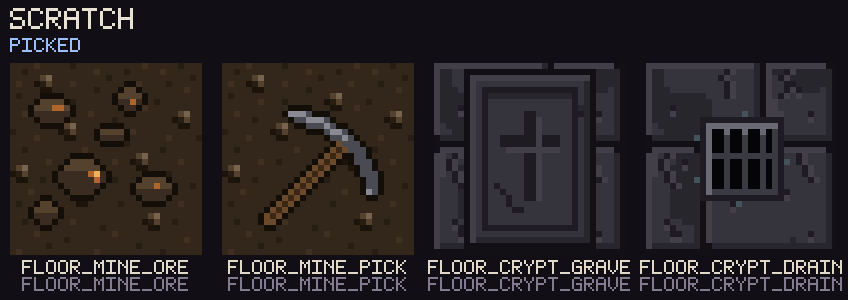
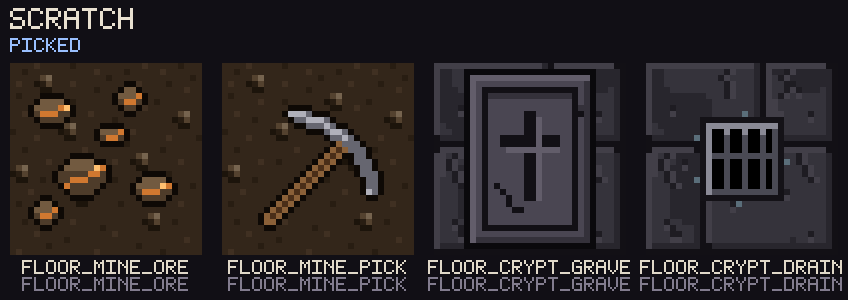
Cite the floor contrast fix in Patch 86
Claude-Session: https://claude.ai/code/session_01PN4WJcu7AgUqkFZr6MNgbp

diff --git a/src/data/patches.ts b/src/data/patches.ts
@@ -13,7 +13,7 @@ export interface Patch {
 }
 
 export const PATCHES: Patch[] = [
-  { n: 86, hash: "bc4c72dca7afa9c69cc252a18a161c000fb60c60", short: "bc4c72d", date: "2026-09-25", title: "Art round four: a clearer Seraph, sharper tells, busier floors", summary: "The Bog Seraph is a frog in a bone halo with six fur wings and a big grinning face, and it reads from across the room. Delver moles have a real snout and long talons, and open their mouths when they lunge. A Spore hunter keeps its tongue in until it strikes, then its gills puff glowing spores. Ossuary floors now show the odd grave lid or drain grate, and the Deep Mines the odd pile of copper spoil or a dropped pick.", tags: ["art", "dungeon"], also: ["d917d18", "68abd28", "447ccb6"], details: ["Only the top two of the Seraph's wings still have eyes, and its halo flares white when it attacks.", "About one floor tile in eight has something on it; most stay plain.", "No save change."] },
+  { n: 86, hash: "bc4c72dca7afa9c69cc252a18a161c000fb60c60", short: "bc4c72d", date: "2026-09-25", title: "Art round four: a clearer Seraph, sharper tells, busier floors", summary: "The Bog Seraph is a frog in a bone halo with six fur wings and a big grinning face, and it reads from across the room. Delver moles have a real snout and long talons, and open their mouths when they lunge. A Spore hunter keeps its tongue in until it strikes, then its gills puff glowing spores. Ossuary floors now show the odd grave lid or drain grate, and the Deep Mines the odd pile of copper spoil or a dropped pick.", tags: ["art", "dungeon"], also: ["d917d18", "68abd28", "447ccb6", "a248bb6"], details: ["Only the top two of the Seraph's wings still have eyes, and its halo flares white when it attacks.", "About one floor tile in eight has something on it; most stay plain.", "No save change."] },
   { n: 85, hash: "41d9818761be06533a12c1256d2f9ca4a4733501", short: "41d9818", date: "2026-09-25", title: "Art round three: rats, doors, the Big Toe", summary: "Giant rats look like rats, with a humped back, big ears, whiskers and a tail. Iron doors look like doors, with straps, hinges, a spy-hole and a pull ring. The Big Toe has a nail and a handle. Smashed urns leave a jagged half standing, and the Sporegrove floor has bare earth and moss among the puddles.", tags: ["art", "dungeon"], also: ["2413043", "52ef700", "41b78dc", "34b90e2", "329eee6"], details: ["This changes every iron door, including the locked ones and the Ashen Throne's fog gate.", "The Big Toe still takes on the colour of what it's made from.", "No save change."] },
   { n: 84, hash: "003c1797db8d23b19d2f4a5b3b787f5d6a762788", short: "003c179", date: "2026-09-25", title: "Tilt stops strafing on its own, and a Main menu button", summary: "On some phones tilt mistook leaning the phone back towards you for rolling it, and strafed one way without stopping. It now checks which way the screen really faces, and whatever angle you hold the phone at when a delve starts or you unpause counts as level. Settings shows what tilt is reading right now. Settings also has a Main menu button, in town and mid-delve; your delve is saved and Resume delve picks it up where you left it.", tags: ["mobile", "saves"] },
   { n: 83, hash: "c200a8ca0ce98f4a3d80c7943908097babc0b1ad", short: "c200a8c", date: "2026-09-25", title: "Update without leaving the delve", summary: "When a new version comes out mid-delve, a small Update button now appears under your depth. Tap it when it suits you: your delve is saved, the new version loads, and you are back where you stood. It never reloads by itself in the dungeon. Out of a delve the update still happens on its own after a few seconds, and its banner now fits a phone screen.", tags: ["mobile", "saves"] },
